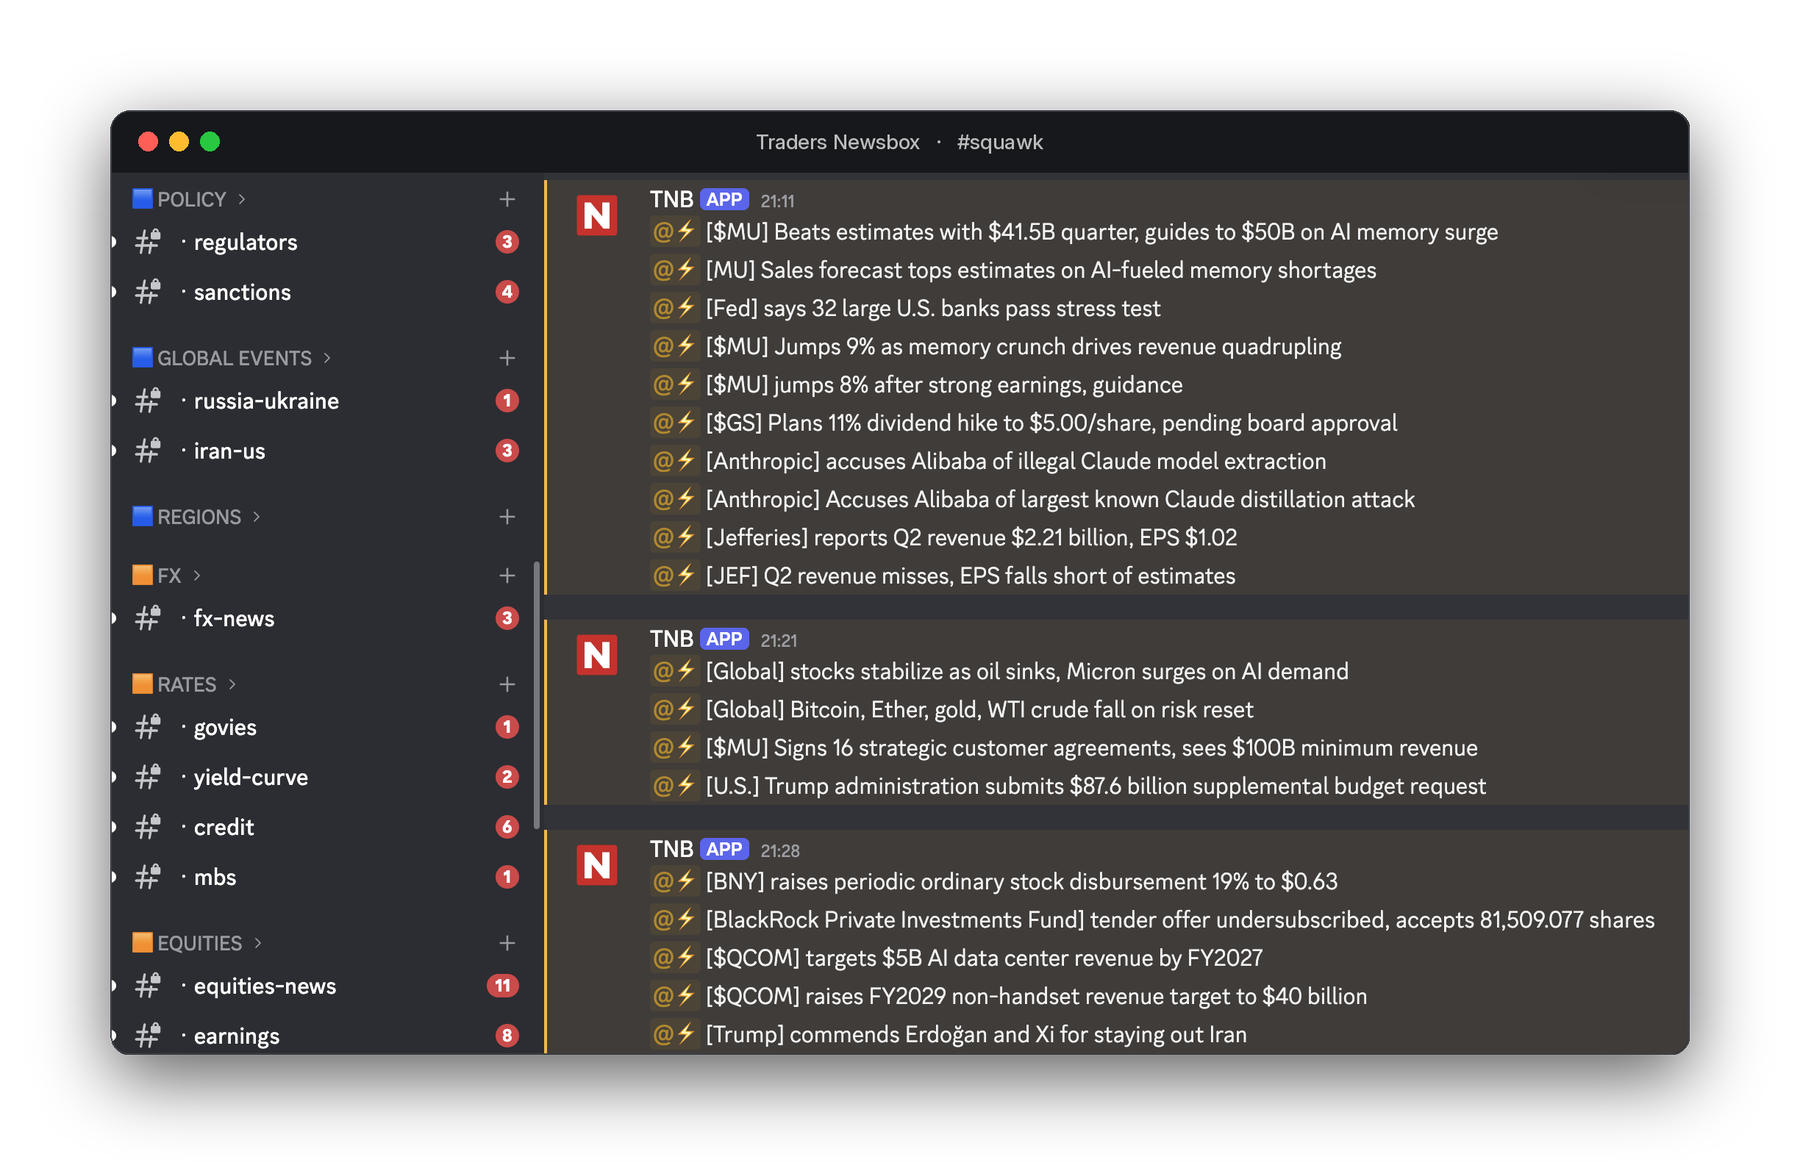
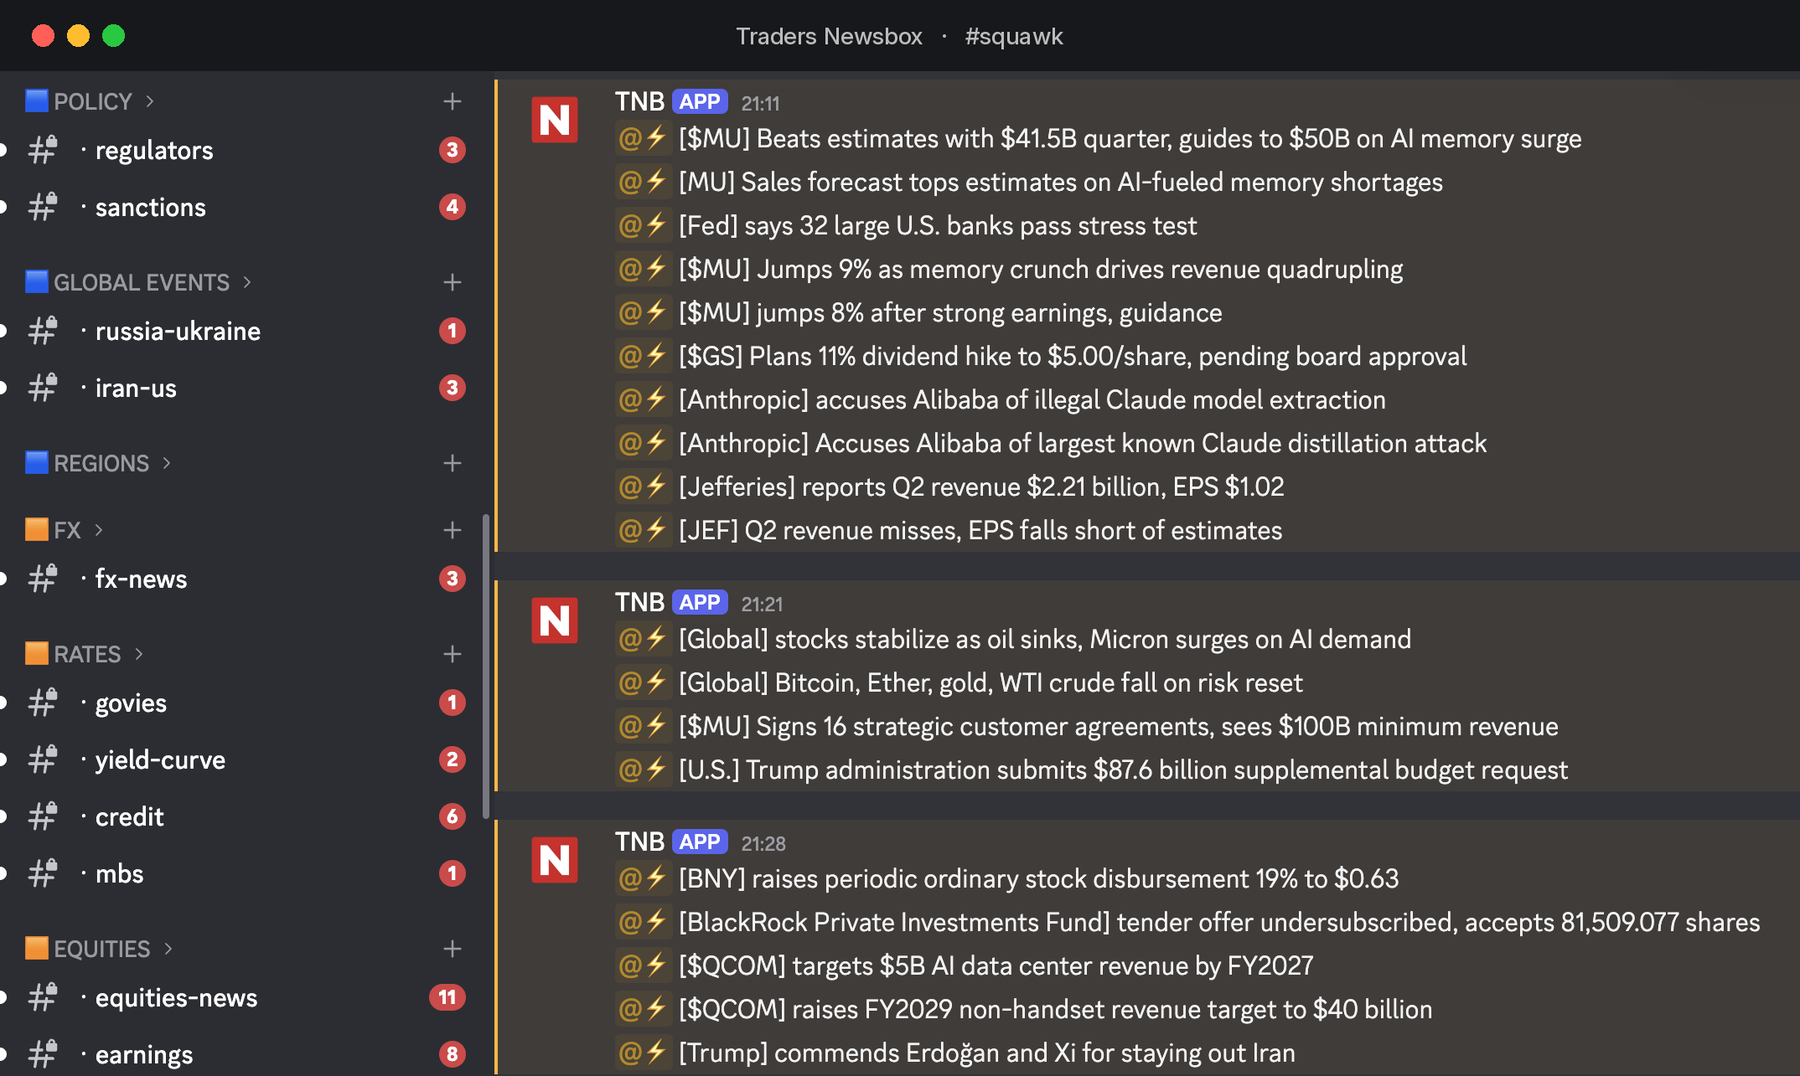
Site: cut hero graphic, balance proof into equal-size panel, reword statement

diff --git a/index.html b/index.html
@@ -288,12 +288,12 @@ a{color:inherit;text-decoration:none;}
 .problem-body{font-size:14px;color:var(--text-body);line-height:1.65;}
 
 /* ── Case study / Proof (centred) ── */
-.proof-grid{display:grid;grid-template-columns:1fr 1fr;gap:2.25rem;align-items:center;}
-.proof-shot{display:block;width:100%;height:auto;cursor:zoom-in;transition:transform .15s ease;}
-.proof-shot:hover{transform:translateY(-2px);}
+.proof-grid{display:grid;grid-template-columns:1fr 1fr;gap:2.25rem;align-items:stretch;}
+.proof-media{height:100%;min-height:260px;display:flex;align-items:center;justify-content:center;padding:clamp(.9rem,1.6vw,1.4rem);overflow:hidden;border-radius:14px;border:1px solid var(--border);background:var(--bg-off);box-shadow:0 16px 48px rgba(0,0,0,.5);}
+.proof-media img{max-width:100%;max-height:100%;width:auto;height:auto;display:block;border-radius:8px;cursor:zoom-in;}
 .lightbox{display:none;position:fixed;inset:0;z-index:1000;background:rgba(0,0,0,.88);align-items:center;justify-content:center;padding:4vw;cursor:zoom-out;}
-.lightbox img{max-width:96vw;max-height:92vh;height:auto;border-radius:6px;}
-@media(max-width:820px){.proof-grid{grid-template-columns:1fr;gap:1.75rem;}}
+.lightbox img{max-width:96vw;max-height:92vh;height:auto;border-radius:8px;}
+@media(max-width:820px){.proof-grid{grid-template-columns:1fr;gap:1.75rem;}.proof-media{height:auto;min-height:0;}.proof-media img{height:auto;object-fit:contain;}}
 .case-block{
   background:var(--bg-proof);
   border-radius:12px;
@@ -614,7 +614,6 @@ a{color:inherit;text-decoration:none;}
 
 <!-- Hero -->
 <section class="hero">
-  <img class="hero-graphic" src="hero-graphic.svg" alt="" aria-hidden="true">
   <div class="container">
     <div class="hero-scarcity">
       <span class="live-dot"></span>
@@ -672,7 +671,7 @@ a{color:inherit;text-decoration:none;}
 <!-- Statement -->
 <section class="statement">
   <div class="container">
-    <p class="statement-line">If the work is the same every time, it's a <span class="accent">system's job</span> — not your team's.</p>
+    <p class="statement-line">Repetitive work is a <span class="accent" style="white-space:nowrap">system's job</span> — not your team's.</p>
   </div>
 </section>
 
@@ -762,7 +761,7 @@ a{color:inherit;text-decoration:none;}
         <a class="case-link" href="https://tradersnewsbox.com/" target="_blank" rel="noopener">See it live → tradersnewsbox.com</a>
       </div>
     </div>
-      <img class="proof-shot" src="tnb-proof.png" alt="Traders Newsbox live squawk feed — real-time market alerts, timestamped" width="1800" height="1165" onclick="document.getElementById('lightbox').style.display='flex'">
+      <div class="proof-media"><img class="proof-shot" src="tnb-proof.png" alt="Traders Newsbox live squawk feed — real-time market alerts, timestamped" onclick="document.getElementById('lightbox').style.display='flex'"></div>
     </div>
   </div>
 </section>
